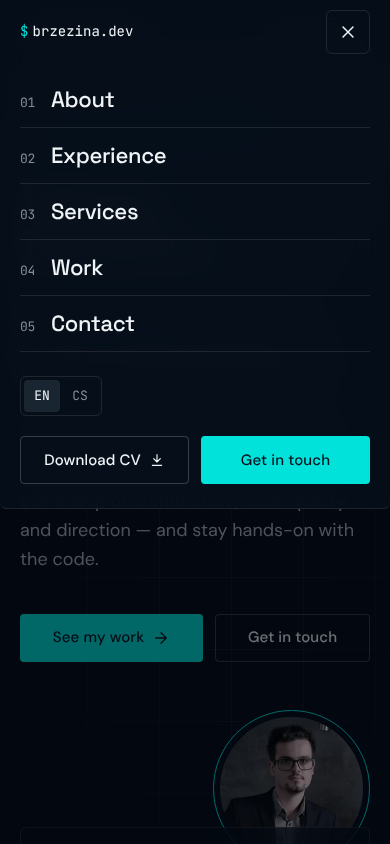
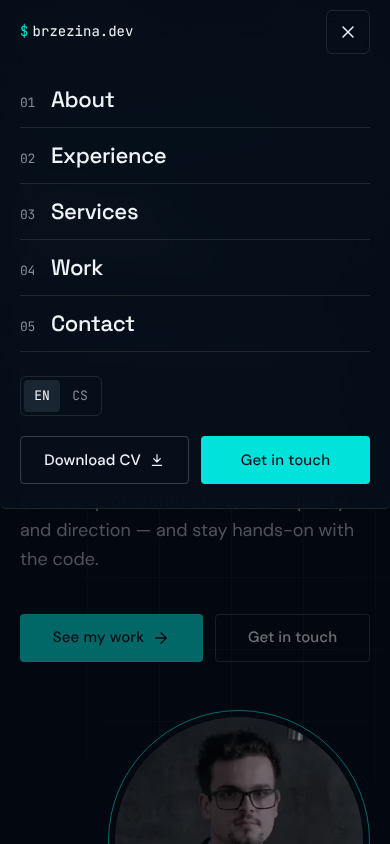
fix(ui): larger mobile hero portrait with the whoami card over its shoulders
Below lg the portrait grows from 11rem/45% to 17rem/75% and the whoami
card overlaps its lower ~20% (shoulders only) instead of covering
roughly a third including the chin. Desktop layout unchanged.

Claude-Session: https://claude.ai/code/session_013mW6ZWY6digWVBj5YtAxDN

Changed region(s): [[0.2769, 0.8318, 0.9538, 1.0], [0.6462, 0.8318, 0.6769, 0.8626]]

diff --git a/src/components/sections/Hero.tsx b/src/components/sections/Hero.tsx
@@ -123,7 +123,7 @@ const Visual = styled.div`
 
 const Portrait = styled.div`
   position: relative;
-  width: min(45%, 11rem);
+  width: min(75%, 17rem);
   aspect-ratio: 1;
   margin-left: auto;
   border-radius: 50%;
@@ -150,9 +150,10 @@ const PortraitFill = styled.div`
 
 /** Floating material card — anchored to the portrait's lower-left edge. */
 /* Positioning lives on the Reveal wrapper: its transform would otherwise become the containing block mid-animation. */
+/* Below lg the card tucks under the portrait — overlapping the shoulders, never the face. */
 const WhoamiReveal = styled(Reveal)`
   position: relative;
-  margin-top: -2.5rem;
+  margin-top: -4rem;
   width: min(100%, 23.5rem);
 
   ${({ theme }) => theme.mq.lg} {

diff --git a/docs/design/redesign-2026-10.md b/docs/design/redesign-2026-10.md
@@ -163,6 +163,7 @@ Only `transform` and `opacity` are animated for movement. No looping animation a
   based    Czech Republic · CET
   speaks   EN · CS
   ```
+- **Mobile:** name first; then the portrait at up to 17rem (75% width) with the `whoami` card overlapping its lower ~20% — shoulders, never the face.
 - **Backdrop:** the 72px technical grid, masked with a radial fade so it dissolves before the edges, plus one soft accent glow top-right (decorative, `aria-hidden`).
 - **Proof strip** (bottom of hero, no rule): `WORKED ON PROJECTS FOR` eyebrow + `Burberry · Walmart · PSA · Veolia · Carvago · Logio` in `monoBody`. Worded as *projects for* because these were clients of EPAM, Starky's Club and Etnetera, not direct engagements — the big names stay, the claim stays accurate.
 
